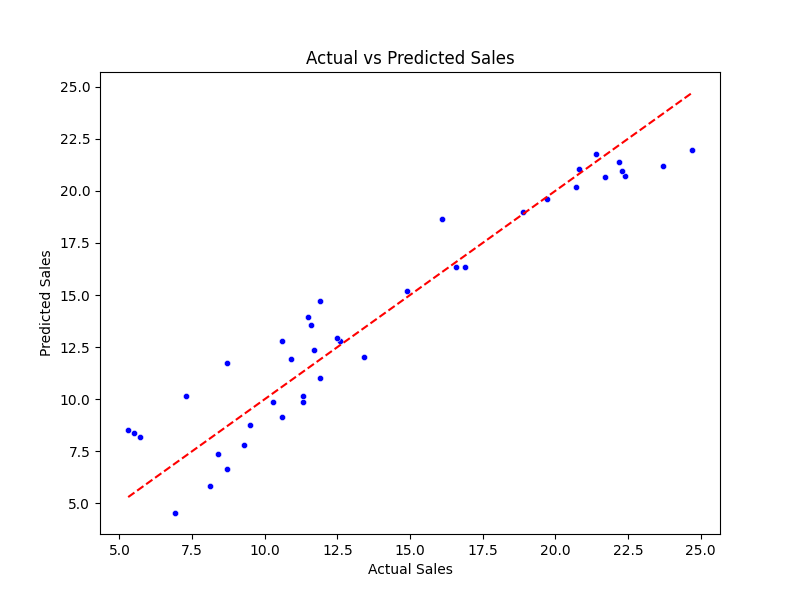
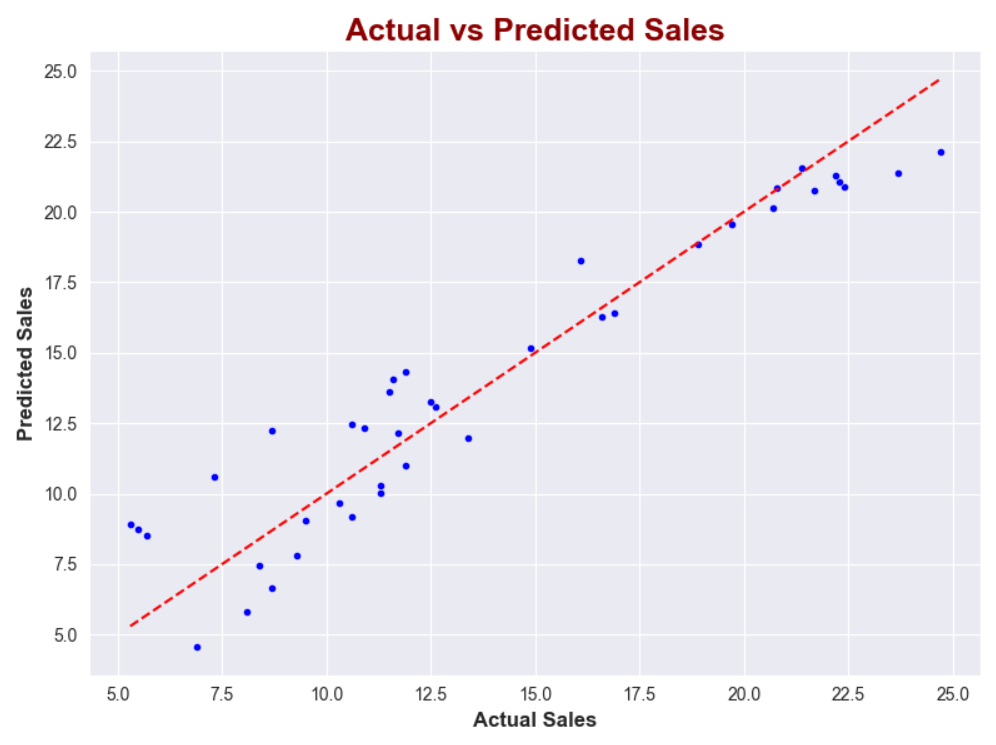
Update all project files with final version

diff --git a/notebooks/linear_regression_advertising.py b/notebooks/linear_regression_advertising.py
@@ -6,6 +6,7 @@ from sklearn.linear_model import LinearRegression
 from sklearn.metrics import mean_squared_error, mean_absolute_error
 from sklearn.model_selection import train_test_split, cross_val_score
 
+
 # We have loaded the dataset, but we encounter an issue:
 # the index column was saved as a regular column in the CSV file.
 # To resolve this, we use the usecols parameter in the read_csv function to exclude the unwanted index column.
@@ -14,126 +15,248 @@ df = pd.read_csv('github_dataset/Advertising.csv', usecols=[1, 2, 3, 4])
 
 # Let's explore the dataset.
 
+# Displaying the first five rows of the dataset for initial inspection.
 df.head()
 
+# Let's examine the structure of the dataset and the data types of the variables.
 df.info()
 
+#Let's examine the descriptive statistics for the numerical variables.
+# Transposing the output for a more readable view
 df.describe().T
 
 # Let's now take a look at how we created the visualizations.
 
-################################################################
-sns.set(style="whitegrid")
-plt.figure(figsize=(8, 6))
+###############################################################################################
+###############################################################################################
+###############################################################################################
+# This scatter plot visualizes the relationship between TV advertising budget and product sales.
+# Each point represents a single observation from the dataset.
+# This plot helps identify whether a linear relationship exists between the two variables.
 sns.scatterplot(data=df, x="TV", y="sales", color="blue")
-plt.title("Relationship between TV Advertising and Sales")
-plt.xlabel("TV Advertising Budget (in thousands of dollars)")
-plt.ylabel("Sales (in thousands of units)")
+plt.title("Relationship between TV Advertising and Sales",
+          fontweight='bold',
+          color='darkred',
+          fontsize=15)
+plt.xlabel("TV Advertising Budget (in thousands of dollars)", fontsize=10, fontweight='bold')
+plt.ylabel("Sales (in thousands of units)", fontsize=10, fontweight='bold')
+plt.xlim(-20, 320)
+plt.ylim(bottom=0, top = 30)
+sns.set_style('darkgrid')
 plt.show()
-#################################################################
-sns.set(style="whitegrid")
-plt.figure(figsize=(8, 6))
+###############################################################################################
+###############################################################################################
+###############################################################################################
+# This scatter plot illustrates the relationship between radio advertising budget and product sales.
+# Each red point represents a data observation showing how much was spent on radio ads and the resulting sales.
+# The goal is to observe whether a pattern or correlation exists between radio spending and sales volume.
+# This visualization helps in evaluating the potential impact of radio advertisements on sales.
 sns.scatterplot(data=df, x="radio", y="sales", color="red")
-plt.title("Relationship between radio Advertising and Sales")
-plt.xlabel("radio Advertising Budget (in thousands of dollars)")
-plt.ylabel("Sales (in thousands of units)")
+plt.title("Relationship between Radio Advertising and Sales",
+          fontweight='bold',
+          color='darkred',
+          fontsize=15)
+plt.xlabel("Radio Advertising Budget (in thousands of dollars)", fontsize=10, fontweight='bold')
+plt.ylabel("Sales (in thousands of units)", fontsize=10, fontweight='bold')
+sns.set_style('darkgrid')
+plt.xlim(-5, 55)
+plt.ylim(top=30)
 plt.show()
-#################################################################
-sns.set(style="whitegrid")
-plt.figure(figsize=(8, 6))
+###############################################################################################
+###############################################################################################
+###############################################################################################
+# This scatter plot displays the relationship between newspaper advertising budget and product sales.
+# Each purple point represents a data observation showing how newspaper spending relates to sales performance.
+# By visualizing this relationship, we can evaluate whether newspaper advertising has a strong impact on sales.
+# The plot helps identify trends or a lack of correlation between these two variables.
 sns.scatterplot(data=df, x="newspaper", y="sales", color="purple")
-plt.title("Relationship between newspaper Advertising and Sales")
-plt.xlabel("Newspaper Advertising Budget (in thousands of dollars)")
-plt.ylabel("Sales (in thousands of units)")
-plt.savefig("images/scatterplot_newspaper.png")
+plt.title("Relationship between Newspaper Advertising and Sales",
+          fontweight='bold',
+          color='darkred',
+          fontsize=15)
+plt.xlabel("Newspaper Advertising Budget (in thousands of dollars)", fontsize=10, fontweight='bold')
+plt.ylabel("Sales (in thousands of units)", fontsize=10, fontweight='bold')
+sns.set_style('darkgrid')
+plt.xlim(-5, 95)
+plt.ylim(top=30)
 plt.show()
-#################################################################
-sns.pairplot(df, diag_kind='kde')
+###############################################################################################
+###############################################################################################
+###############################################################################################
+tv_corr = df['TV'].corr(df['sales'])
+radio_corr = df['radio'].corr(df['sales'])
+news_corr = df['newspaper'].corr(df['sales'])
+df['sales_category'] = pd.cut(df['sales'], bins=3, labels=['low', 'mid', 'high'])
+###############################################################################################
+# This pairplot provides a comprehensive visualization of the relationships between all numerical features in the dataset.
+# The plot includes scatter plots for each variable pair and kernel density estimates (KDE) on the diagonals.
+# Data points are color-coded based on 'sales_category', which segments sales into three bins: low, mid, and high.
+# Additionally, correlation values between TV, radio, and newspaper advertising budgets and sales are annotated on the figure.
+# This visualization is useful for identifying patterns, trends, and the strength of linear relationships between variables.
+g = sns.pairplot(df, diag_kind='kde',
+                 corner=True,
+                 plot_kws={'alpha': 0.9, 's': 60, 'edgecolor': 'k'},
+                 hue='sales_category',
+                 height=2.6 ,
+                 aspect=1.1)
+plt.suptitle("Advertising Dataset - Pairplot", fontsize=25, fontweight='bold', color='darkred')
+g.figure.text(0.86, 0.61, f"TV-Sales Corr: {tv_corr:.2f}", fontsize=10, color='black', fontweight='bold')
+g.figure.text(0.86, 0.59, f"Radio-Sales Corr: {radio_corr:.2f}", fontsize=10, color='black', fontweight='bold')
+g.figure.text(0.86, 0.57, f"News-Sales Corr: {news_corr:.2f}", fontsize=10, color='black', fontweight='bold')
 plt.show()
-#################################################################
-sns.heatmap(df.corr(numeric_only=True), cmap="coolwarm", annot=True, linewidths=0.5)
-plt.title("Correlation Heatmap")
+###############################################################################################
+###############################################################################################
+###############################################################################################
+# This heatmap visualizes the correlation matrix for the numerical variables in the dataset.
+# Each cell shows the Pearson correlation coefficient between a pair of variables.
+# Color gradients (from blue to red) represent the strength and direction of the correlation:
+# - Red indicates a strong positive correlation.
+# - Blue indicates a strong negative correlation.
+# - Values near zero indicate weak or no correlation.
+# This visualization helps identify multicollinearity and relationships useful for predictive modeling.
+sns.heatmap(df.corr(numeric_only=True),
+            cmap="coolwarm",
+            annot=True,
+            linewidths=0.7,
+            fmt=".2f",
+            square=True,
+            cbar_kws={'shrink' : 0.75},annot_kws={'fontsize':14})
+plt.title("Correlation Heatmap", fontweight='bold', fontsize=16, color='darkred', pad=15)
+plt.tight_layout()
+plt.xticks(fontweight='bold', fontsize=12)
+plt.yticks(fontweight='bold', fontsize=12)
 plt.show()
-#################################################################
-
+###############################################################################################
+###############################################################################################
+###############################################################################################
 # Simple Linear Regression with OLS Using Scikit-Learn
 # This is a basic example of simple linear regression to illustrate how the model works.
 
 X = df[['TV']]
 y = df[['sales']]
 
-model = LinearRegression().fit(X, y)
-
-g = sns.regplot(x = X, y =y, scatter_kws = {'color' : 'b', 's' : 9},
-                ci = False, color = 'r')
-g.set_title(f"Model Equation: Sales = {round(model.intercept_[0], 2)} + TV*{round(model.coef_[0][0], 2)}")
-g.set_ylabel("Number of Sales")
-g.set_xlabel("TV expenses")
-plt.xlim(-10, 310)
-plt.ylim(bottom=0)
-plt.show()
-
-#MSE
-y_pred = model.predict(X)
+simple_model = LinearRegression().fit(X, y)
+y_pred = simple_model.predict(X)
+###############################################################################################
+###############################################################################################
+###############################################################################################
+#MSE (Mean Squared Error)
+#It is the average of the squared differences between the predicted and actual values.
 mean_squared_error(y, y_pred)
-
-#RMSE
+###############################################################################################
+#RMSE (Root Mean Square Error)
 np.sqrt(mean_squared_error(y, y_pred))
-
-# MAE
+# It measures the square root of the average of squared differences between actual and predicted values. It penalizes large errors more than small ones.
+###############################################################################################
+# MAE (Mean Absolute Error)
 mean_absolute_error(y, y_pred)
-
-# R-Square
-model.score(X,y)
-
-
+# It represents the average of the absolute differences between predicted and actual values. Less sensitive to outliers compared to MSE/RMSE.
+###############################################################################################
+# 𝑅2 (Coefficient of Determination (R-squared))
+# It indicates the proportion of the variance in the dependent variable that is predictable from the independent variables. Values range from 0 to 1.
+simple_model.score(X,y)
+###############################################################################################
+###############################################################################################
+###############################################################################################
+# NOTE! : It is not appropriate to compare MSE, MAE, and RMSE against each other directly, as they are based on different error formulations.
+# A single evaluation metric should be chosen beforehand, and all subsequent comparisons—such as between
+# different models or after applying feature engineering techniques—should be made using that same metric.
+###############################################################################################
+###############################################################################################
+###############################################################################################
+#The code generates a regression plot using Seaborn to visualize
+# the relationship between TV advertising expenses and sales figures based on a simple linear regression model.
+# The scatter points are drawn in blue, while the regression line is displayed in dark red.
+# The plot includes the regression equation and several key performance metrics such as
+#𝑅2, MSE, RMSE, and MAE, positioned in the top-right corner for reference.
+###############################################################################################
+###############################################################################################
+# This regression plot visualizes the linear relationship between TV advertising expenses and sales.
+# The blue scatter points represent the actual data observations.
+# The red regression line represents the best-fitting line estimated by the simple linear regression model.
+# Key performance metrics such as R², MSE, RMSE, and MAE are annotated in the top-right corner of the plot.
+# This plot provides both a visual and quantitative evaluation of model accuracy and fit quality.
+g = sns.regplot(data = df, x = X, y= y, scatter_kws = {'color' : 'b', 's' : 9, 'alpha' : 1},
+                ci = False, color = 'r',
+                line_kws={'color': 'darkred', 'linewidth': 2})
+g.set_title(f'Model Equation : {round(simple_model.intercept_[0], 2)} + TV*{round(simple_model.coef_[0][0], 2)}',
+            fontweight = 'bold',
+            color='darkred',
+            fontsize=16)
+g.set_xlabel("TV Expenses", fontsize=12, fontweight='bold')
+g.set_ylabel('Number of Sales', fontsize=12, fontweight='bold')
+sns.set_style('darkgrid')
+g.set_xlim(-10, 310)
+g.set_ylim(bottom=0)
+g.text(313, 20, f'$R^2$: {simple_model.score(X, y):.2f}', fontsize=8, color='black')
+g.text(313, 18, f'MSE: {mean_squared_error(y, y_pred):.2f}', fontsize=8, color='black')
+g.text(313, 16, f'RMSE: {np.sqrt(mean_squared_error(y, y_pred)):.2f}', fontsize=8, color='black')
+g.text(313, 14, f'MAE: {mean_absolute_error(y, y_pred):.2f}', fontsize=8, color='black')
+plt.tight_layout()
+plt.show()
+###############################################################################################
+###############################################################################################
+###############################################################################################
 # Multiple Linear Regression
 
-X = df.drop('sales', axis = 1)
+X = df.drop(['sales', 'sales_category'], axis = 1)
 y = df['sales']
 
 X_train, X_test, y_train, y_test = train_test_split(X, y, test_size=0.2, random_state=42)
 
-model = LinearRegression()
-model.fit(X_train, y_train)
-y_pred = model.predict(X_test)
+multiple_model = LinearRegression()
+multiple_model.fit(X_train, y_train)
+y_pred = multiple_model.predict(X_test)
 
-print(f"Sales = {round(model.intercept_, 2)} + {round(model.coef_[0], 2)}*TV + {round(model.coef_[1], 2)}*radio + {round(model.coef_[2], 3)}*newspaper")
-
-
-# Plotting actual vs predicted
+print(f"Sales = {round(multiple_model.intercept_, 2)} "
+      f"+ {round(multiple_model.coef_[0], 2)}*TV "
+      f"+ {round(multiple_model.coef_[1], 2)}*radio "
+      f"+ {round(multiple_model.coef_[2], 3)}*newspaper")
+###############################################################################################
+###############################################################################################
+###############################################################################################
+# This scatter plot compares the actual sales values (y_test) with the predicted values (y_pred) from the multiple linear regression model.
+# Each point represents a prediction for a given test sample.
+# The red dashed diagonal line (y = x) represents perfect prediction.
+# Points close to this line indicate accurate predictions, while points farther away show prediction errors.
+# This visualization helps assess the overall performance and reliability of the regression model on unseen test data.
 plt.figure(figsize=(8, 6))
 sns.scatterplot(x=y_test, y=y_pred, color='blue', s=20)
-plt.plot([y_test.min(), y_test.max()], [y_test.min(), y_test.max()], '--', color='red')
-plt.xlabel("Actual Sales")
-plt.ylabel("Predicted Sales")
-plt.title("Actual vs Predicted Sales")
+plt.plot([y_test.min(), y_test.max()], [y_test.min(), y_test.max()], '--', color='red', )
+plt.xlabel("Actual Sales", fontsize=12, fontweight='bold')
+plt.ylabel("Predicted Sales", fontsize=12, fontweight='bold')
+plt.title("Actual vs Predicted Sales",  fontsize=18, fontweight='bold', color = 'darkred')
+plt.tight_layout()
 plt.show()
-
+###############################################################################################
+###############################################################################################
+###############################################################################################
 # Train RMSE
-y_pred = model.predict(X_train)
+y_pred = multiple_model.predict(X_train)
 np.sqrt(mean_squared_error(y_train, y_pred))
-
+###############################################################################################
 # TRAIN R-KARE
-
-model.score(X_train, y_train)
-
+multiple_model.score(X_train, y_train)
+###############################################################################################
 # Test RMSE
-
-y_pred = model.predict(X_test)
+y_pred = multiple_model.predict(X_test)
 np.sqrt(mean_squared_error(y_test, y_pred))
-
+###############################################################################################
 # Test R-KARE
-model.score(X_test, y_test)
-
+multiple_model.score(X_test, y_test)
+###############################################################################################
+###############################################################################################
+###############################################################################################
 # 10-fold Cross-Validation RMSE
 
-np.mean(np.sqrt(-cross_val_score(model,
+np.mean(np.sqrt(-cross_val_score(multiple_model,
                                  X,
                                  y,
                                  cv=10,
                                  scoring = "neg_mean_squared_error")))
-
+###############################################################################################
+###############################################################################################
+###############################################################################################
 
 # Simple Linear Regression with Gradient Descent from Scratch
 
@@ -199,3 +322,29 @@ initial_w = 0.001
 num_iters = 10000
 
 cost_history, b, w = train(Y, initial_b, initial_w, X, learning_rate, num_iters)
+###############################################################################################
+###############################################################################################
+###############################################################################################
+#A line plot visualizing the Mean Squared Error (MSE) over each iteration during the gradient descent optimization process.
+#It demonstrates how the model gradually minimizes the error, indicating convergence towards an optimal solution.
+plt.plot(range(num_iters), cost_history)
+plt.title("Gradient Descent - Cost Function over Iterations", fontsize=14, fontweight='bold', color = 'darkred', y=1.05)
+plt.xlabel("Iteration", fontsize=12, fontweight='bold')
+plt.ylabel("MSE", fontsize=12, fontweight='bold')
+plt.grid(True)
+plt.show()
+###############################################################################################
+###############################################################################################
+###############################################################################################
+#A comparison between the actual sales values and the predicted values generated by the linear regression model trained using gradient descent.
+#The scatter points represent real data, while the dark red line shows the predicted trend, allowing visual evaluation of the model's fit on the radio feature.
+plt.scatter(X, Y, label="Actual", alpha=0.7)
+plt.plot(X, b + w * X, color="darkred", label="Predicted", linewidth=2)
+plt.title("Gradient Descent Result - Radio vs Sales", fontsize=14, fontweight='bold', color = 'darkred', y=1.05)
+plt.xlabel("Radio Budget", fontsize=12, fontweight='bold')
+plt.ylabel("Sales", fontsize=12, fontweight='bold')
+plt.legend()
+plt.show()
+###############################################################################################
+###############################################################################################
+###############################################################################################
